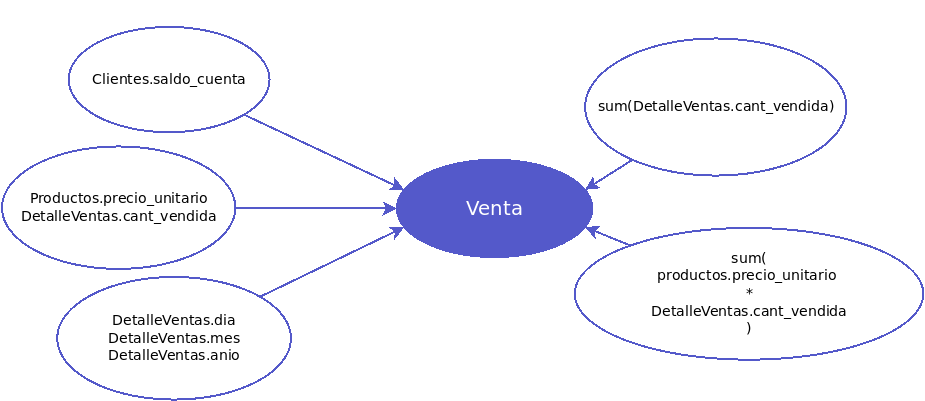
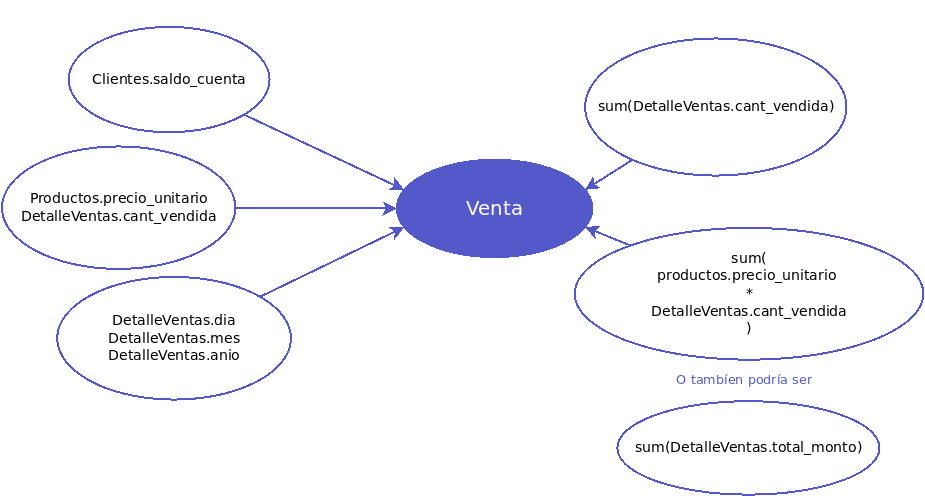
Agrego modelo logico

diff --git a/TP03/README.md b/TP03/README.md
@@ -39,6 +39,9 @@ El diseño corresponde al esquema de *Estrella* estudiado en clase. Ya que tiene
 ###### Modelo conceptual (Constelación)
 ![modelo_conceptual](https://raw.githubusercontent.com/AgustinNormand/bases-de-datos-masivas/main/TP03/ejercicio_2/imagenes/ModeloConceptual(Constelacion).png)
 
+###### Modelo lógico (Copo de nieve)
+![modelo_logico](https://raw.githubusercontent.com/AgustinNormand/bases-de-datos-masivas/main/TP03/ejercicio_2/imagenes/ModeloLogico.png)
+
 #### 3. Se cuenta con el siguiente Modelo Conceptual, el cual representa un esquema reducido de una Empresa que se dedica a la venta de artículos de librería por internet: 
 ![modelo_conceptual](https://raw.githubusercontent.com/AgustinNormand/bases-de-datos-masivas/main/TP03/ejercicio_3/Diagrama_Libreria.png)
 
@@ -51,6 +54,12 @@ La información de entidades que se obtuvo del área de IT son:
 *DetalleVentas*:  codigo_cliente,  codigo_producto,  dia,  mes,  anio,  cant_vendida, total_monto. 
 
 Utilizando  una  herramienta  gráfica  de  diseño,  genere  el  Modelo  Conceptual Ampliado, Lógico y Físico del Data Warehouse.
+
+###### Modelo conceptual ampliado (Estrella)
+![modelo_conceptual_ampliado](https://raw.githubusercontent.com/AgustinNormand/bases-de-datos-masivas/main/TP03/ejercicio_3/imagenes/ModeloConceptualAmpliado.png)
+
+###### Modelo lógico
+
 
 
 #### 4. Se  hace  notar  que  la  estructura  de  la  Base  de  Datos  del  Punto  1  del  “TP01 Definición de Procesos ETL”  corresponde  a  uno  de  los  posibles  esquemas  de DW. ¿A cuál? ¿Por qué? 
